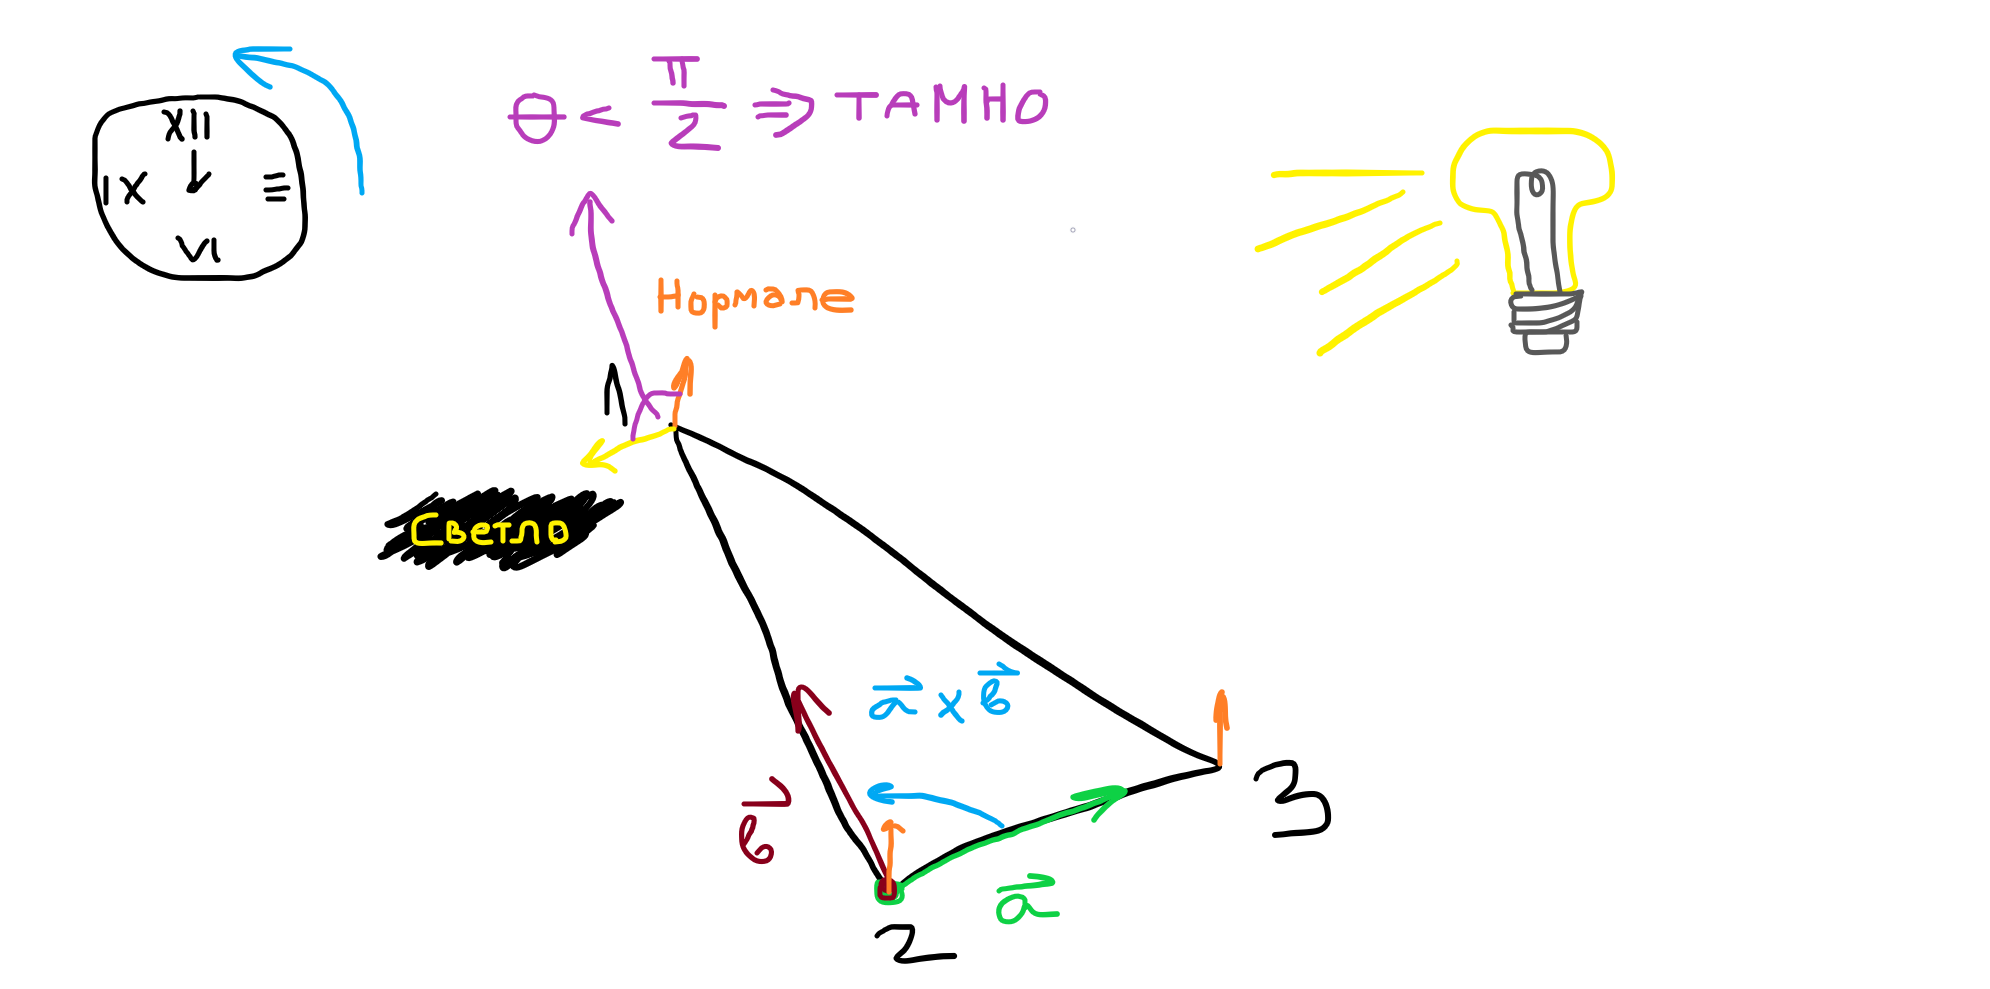
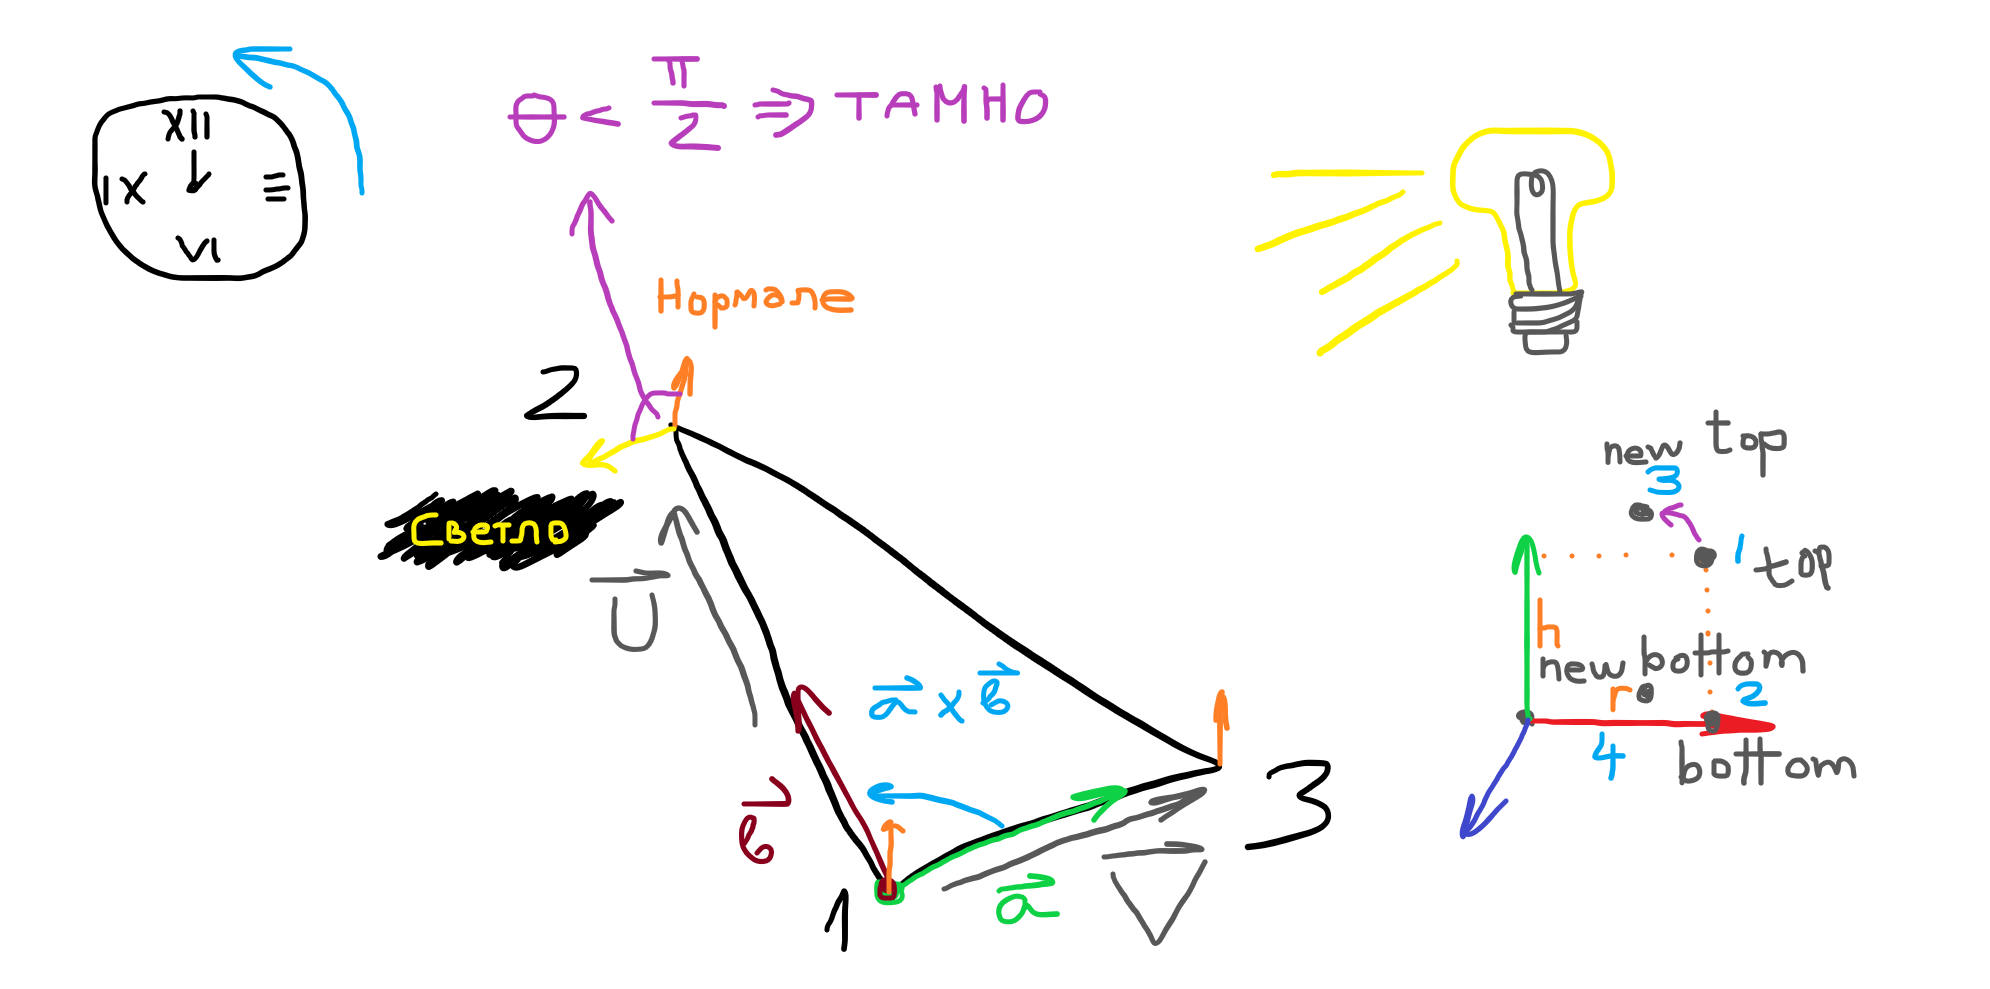
cylinder lit up, to do cones

diff --git a/GeometrySolverWeb/public/main.js b/GeometrySolverWeb/public/main.js
@@ -510,7 +510,7 @@ socket.on("message", message =>{
 
 function modelColor()
 {
-    return [0.8,0.8,0.8];
+    return [0.6,0.6,0.6];
 }
 
 function drawGrid(rotating)
@@ -587,12 +587,34 @@ function drawCone(a,h,dense)
     }
     else
     {
-        let base = a;
-        let height = h;
         coneTipVertex = [0.0,h,0.0];
         vertexData.push(...coneTipVertex);
         colorData.push(...modelColor());
-        drawCircle(dense,a);
+        
+        let density = dense;
+        let size = a;
+        
+        let theta = (Math.PI*2)/density;
+        let cosine = Math.cos(theta);
+        let sine = Math.sin(theta);
+        circleVertex = [size,0.0,0.0];
+        vertexData.push(...circleVertex);
+        colorData.push(...modelColor());
+        for(i=0;i<density;i++)
+        {
+            if(i==0)
+            {
+                circleVertex = [size,0.0,0.0];
+                vertexData.push(...circleVertex);
+                colorData.push(...modelColor());
+            }
+            circleVertex = [cosine*circleVertex[0]+sine*circleVertex[2],0.0,-sine*circleVertex[0]+cosine*circleVertex[2]];
+            vertexData.push(...circleVertex);
+            vertexData.push(...circleVertex);
+            colorData.push(...modelColor());
+            colorData.push(...modelColor());
+        }
+        webgl(gl.TRIANGLE_FAN,false);
     }
         
 }
@@ -612,28 +634,37 @@ function drawCylinder(a,b,dense)
         let radius = a;
         let height = b;
 
-        for(i=0;i<dense;i++)
+        for(i=0;i<=dense;i++)
         {
             if(i==0)
             {
                 //prvo teme trouglica
                 wrapVertexTop = [radius,height,0.0];
+                vertexData.push(...wrapVertexTop);
+                colorData.push(...modelColor());
+        
                 //drugo teme trouglica
                 wrapVertexBottom = [radius,0.0,0.0];
+                vertexData.push(...wrapVertexBottom);
+                colorData.push(...modelColor());
             }
-            
+            else
+            {
+                vertexData.push(...wrapVertexTop);
+                colorData.push(...modelColor());
+                vertexData.push(...wrapVertexBottom);
+                colorData.push(...modelColor());
+            }
+
             //prvi vektor za cross product: U = p2-p1
             vector1=[wrapVertexBottom[0]-wrapVertexTop[0],wrapVertexBottom[1]-wrapVertexTop[1],wrapVertexBottom[2]-wrapVertexTop[2]];
-            
-            vertexData.push(...wrapVertexTop);
-            vertexData.push(...wrapVertexBottom);
-            colorData.push(...modelColor());
-            colorData.push(...modelColor());
-
+        
             wrapVertexTopOld = wrapVertexTop;
 
             //trece teme trouglica
             wrapVertexTop = [cosine*wrapVertexTop[0]+sine*wrapVertexTop[2],height,-sine*wrapVertexTop[0]+cosine*wrapVertexTop[2]];
+            vertexData.push(...wrapVertexTop);
+            colorData.push(...modelColor());
 
             //drugi vektor za cross product: V = p3-p1
             vector2 = [wrapVertexTop[0]-wrapVertexTopOld[0],wrapVertexTop[1]-wrapVertexTopOld[1],wrapVertexTop[2]-wrapVertexTopOld[2]];
@@ -643,16 +674,21 @@ function drawCylinder(a,b,dense)
             // Ny = UzVx - UxVz
             // Nz = UxVy - UyVx
             normalVector = [vector1[1]*vector2[2]-vector1[2]*vector2[1],vector1[2]*vector2[0]-vector1[0]*vector2[2],vector1[0]*vector2[1]-vector1[1]*vector2[0]];
-            console.log(Math.sqrt(normalVector[0]*normalVector[0]+normalVector[1]*normalVector[1]+normalVector[2]*normalVector[2]));
-            normalData.push(normalVector);
-
+            let normalMagnitude = Math.sqrt(normalVector[0]*normalVector[0]+normalVector[1]*normalVector[1]+normalVector[2]*normalVector[2]);
+            normalVector = [normalVector[0]/normalMagnitude,normalVector[1]/normalMagnitude,normalVector[2]/normalMagnitude];
+            normalMagnitude = Math.sqrt(normalVector[0]*normalVector[0]+normalVector[1]*normalVector[1]+normalVector[2]*normalVector[2]);
+            console.log(normalMagnitude);
+            //cetiri normale jer pushujemo 4 vertexa po ciklusu petlje
+            normalData.push(...normalVector);
+            normalData.push(...normalVector);
+            normalData.push(...normalVector);
+            normalData.push(...normalVector);
+            
             wrapVertexBottom = [cosine*wrapVertexBottom[0]+sine*wrapVertexBottom[2],0.0,-sine*wrapVertexBottom[0]+cosine*wrapVertexBottom[2]];
-            vertexData.push(...wrapVertexTop);
             vertexData.push(...wrapVertexBottom);
             colorData.push(...modelColor());
-            colorData.push(...modelColor());
         }
-        webgl(gl.TRIANGLE_STRIP,false);
+        webgl(gl.TRIANGLE_STRIP,true);
     }
 }
 
@@ -716,7 +752,7 @@ const vertexShader = gl.createShader(gl.VERTEX_SHADER);
 gl.shaderSource(vertexShader, `
 precision mediump float;
 
-const vec3 lightDirection = normalize(vec3(0, 1.0, 1.0));
+const vec3 lightDirection = normalize(vec3(1.0, 1.0, 1.0));
 const float ambient = 0.2;
 
 attribute vec3 position;
@@ -801,19 +837,25 @@ mat4.perspective(projectionMatrix,
 const mvMatrix =mat4.create();
 const mvpMatrix = mat4.create();
 
-
-mat4.translate(modelMatrix,modelMatrix,[0.0,0.0,0.0]);
 mat4.translate(viewMatrix,viewMatrix,[0.0,2.0,5.0]);
 mat4.invert(viewMatrix,viewMatrix);
 
+const normalMatrix = mat4.create();
+
 function animate() {
-    gl.clearColor(0.4, 0.4, 0.4, 1.0);
-    gl.clear(gl.COLOR_BUFFER_BIT);
+    // gl.clearColor(0.412, 0.412, 0.412, 1.0);
+    // gl.clear(gl.COLOR_BUFFER_BIT);
     requestAnimationFrame(animate);
-    mat4.rotateY(modelMatrix, modelMatrix, Math.PI/400);
+    mat4.rotateY(modelMatrix, modelMatrix, Math.PI/200);
     mat4.multiply(mvMatrix,viewMatrix,modelMatrix);
     mat4.multiply(mvpMatrix,projectionMatrix,mvMatrix);
+    
+    mat4.invert(normalMatrix, mvMatrix);
+    mat4.transpose(normalMatrix, normalMatrix);
+
+    gl.uniformMatrix4fv(uniformLocations.normalMatrix, false, normalMatrix);
     gl.uniformMatrix4fv(uniformLocations.matrix, false, mvpMatrix);
+    
     gl.drawArrays(glDrawMode, 0, vertexData.length/3);
 }
 
@@ -822,10 +864,10 @@ if(!animacija)
 {
     gl.clearColor(0.412, 0.412, 0.412, 1.0);
     gl.clear(gl.COLOR_BUFFER_BIT);
-    mat4.rotateY(modelMatrix, modelMatrix, Math.PI/400);
     mat4.multiply(mvMatrix,viewMatrix,modelMatrix);
     mat4.multiply(mvpMatrix,projectionMatrix,mvMatrix);
-    
+
+    gl.uniformMatrix4fv(uniformLocations.normalMatrix, false, normalMatrix);
     gl.uniformMatrix4fv(uniformLocations.matrix, false, mvpMatrix);
     gl.drawArrays(glDrawMode, 0, vertexData.length/3);
 }
